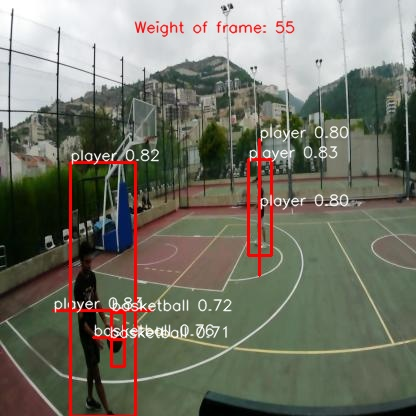
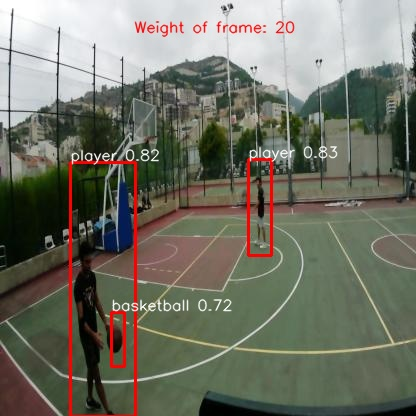
testing our filter

diff --git a/utils.py b/utils.py
@@ -83,16 +83,17 @@ class YOLOv5s:
         scaled_coordinates = []
 
         if len(detections):
-            for coordinates in detections[:,:4]:
-                x1, y1, x2, y2 = coordinates
+            for detection in detections:
+                x1, y1, x2, y2, conf, class_id = detection
 
                 x1_scaled = max(0, (x1*self.input_size[0]*ratio_w))
                 y1_scaled = max(0, (y1*self.input_size[1]*ratio_h))
                 x2_scaled = min(self.frame_w, (x2*self.input_size[0]*ratio_w))
                 y2_scaled = min(self.frame_h, (y2*self.input_size[1]*ratio_h))
 
-                scaled_coordinates.append((int(x1_scaled), int(y1_scaled), int(x2_scaled), int(y2_scaled)))
+                if(x1_scaled == x2_scaled or y1_scaled == y2_scaled):
+                    continue
 
-            detections[:,:4] = scaled_coordinates
+                scaled_coordinates.append((int(x1_scaled), int(y1_scaled), int(x2_scaled), int(y2_scaled), conf, class_id))
 
-        return detections
+        return np.array(scaled_coordinates)
